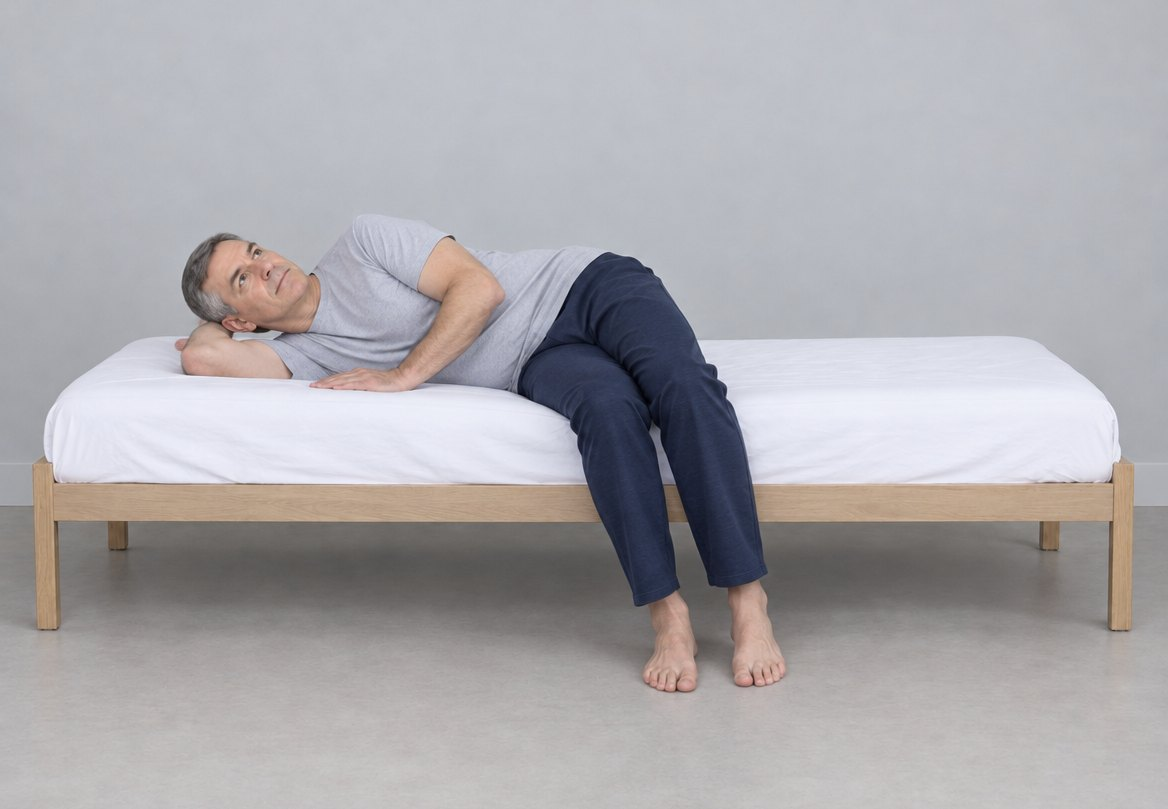
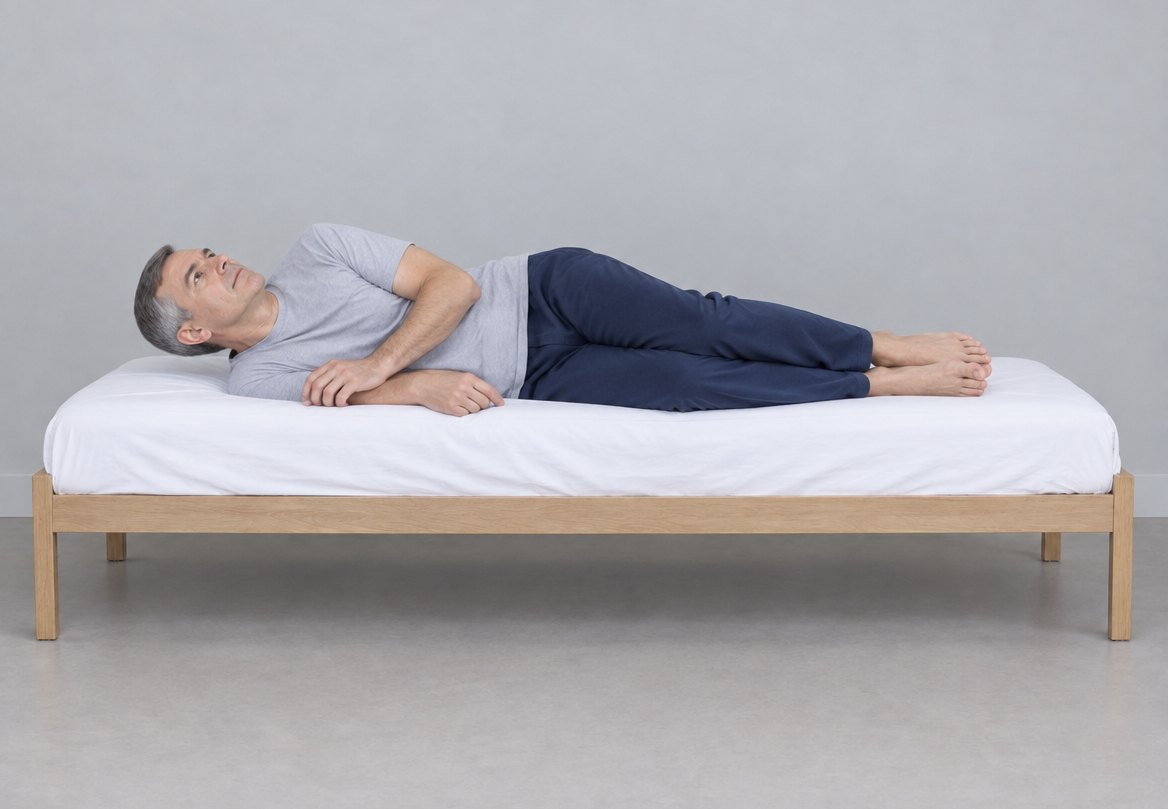
Interactive BPPV animation, softer type, corrected lying photos
- Animation: hold the arrows (or press left/right) to tip the head and
  watch the crystals slide and the cupula bend; the corner pictogram is
  now the hologram head from the landing page, following each posture
  including the Epley turns
- Brandt-Daroff: lying photos with both legs on the bed and the face
  turned up to the ceiling
- Labels use the body face with lighter tracking instead of the square
  monospace; slightly smaller headings and ledes

Claude-Session: https://claude.ai/code/session_012kNT1NbkjbFywj2rgqaw1M

diff --git a/src/scripts/otolith.js b/src/scripts/otolith.js
@@ -6,6 +6,7 @@
 // (towards the viewer). Shapes are simplified for patient education.
 
 import * as THREE from 'three';
+import { loadHead } from './holo.js';
 
 // ---------- geometry helpers ----------
 const v3 = (x, y, z) => new THREE.Vector3(x, y, z);
@@ -153,14 +154,32 @@ const structFS = (points) => `
   }`;
 
 // ---------- animation ----------
-export function createOtolithAnimation({ host, captions, labels, onStep, onPosture }) {
+export async function createOtolithAnimation({ host, inset, headUrl, captions, labels, onStep, onManual }) {
   const reduceMotion = window.matchMedia('(prefers-reduced-motion: reduce)').matches;
   const renderer = new THREE.WebGLRenderer({ antialias: true, alpha: true });
   renderer.setPixelRatio(Math.min(window.devicePixelRatio || 1, 2));
   host.appendChild(renderer.domElement);
 
+  renderer.autoClear = false;
   const scene = new THREE.Scene();
   const camera = new THREE.PerspectiveCamera(34, 1, 0.1, 50);
+
+  // Small hologram of the patient's head (the landing-page model) that copies the posture.
+  const headData = await loadHead(headUrl);
+  const headScene = new THREE.Scene();
+  const headCam = new THREE.PerspectiveCamera(30, 1, 0.1, 50);
+  headCam.position.set(8, -0.1, 0);
+  headCam.lookAt(0, -0.1, 0);
+  const headPivot = new THREE.Group();
+  const headModel = new THREE.Group();
+  headModel.position.set(0, 0.55, 0.1);           // rotate about the top of the neck
+  headPivot.position.set(0, -0.55, -0.1);
+  headPivot.add(headModel);
+  headScene.add(headPivot);
+  const hp = new THREE.BufferGeometry();
+  hp.setAttribute('position', new THREE.BufferAttribute(headData.pts, 3));
+  hp.setAttribute('normal', new THREE.BufferAttribute(headData.ptsN, 3));
+  hp.setAttribute('feature', new THREE.BufferAttribute(headData.ptsF, 1));
   const pivot = new THREE.Group();          // rotates like the patient's head
   const lab = new THREE.Group();
   const centre = v3(0.42, 0.0, -0.08);
@@ -171,6 +190,20 @@ export function createOtolithAnimation({ host, captions, labels, onStep, onPostu
   const px = { value: renderer.getPixelRatio() };
   const fade = { value: 1 };
   const additive = { transparent: true, depthWrite: false, blending: THREE.AdditiveBlending };
+  headModel.add(new THREE.Points(hp, new THREE.ShaderMaterial({
+    uniforms: { uPx: px },
+    vertexShader: `${lit}
+      uniform float uPx; attribute float feature; varying float vA;
+      void main() {
+        vec3 nv = normalize(normalMatrix * normal);
+        vA = (shade(normal) * 0.55 + feature * 0.9) * smoothstep(-0.25, 0.3, nv.z) * smoothstep(-1.75, -1.3, position.y);
+        gl_PointSize = 1.1 * uPx;
+        gl_Position = projectionMatrix * modelViewMatrix * vec4(position, 1.0);
+      }`,
+    fragmentShader: `varying float vA; void main() { float d = length(gl_PointCoord - 0.5); if (d > 0.5) discard; gl_FragColor = vec4(0.55, 0.95, 1.0, vA * (1.0 - d * 2.0)); }`,
+    ...additive,
+  })));
+
   const geo = buildLabyrinth();
   const lg = new THREE.BufferGeometry();
   lg.setAttribute('position', new THREE.Float32BufferAttribute(geo.lines, 3));
@@ -249,7 +282,7 @@ export function createOtolithAnimation({ host, captions, labels, onStep, onPostu
     { d: 3, tilt: -360 },     // 6 back in the utricle, where they cause no symptoms
   ];
   const TOTAL = STEPS.reduce((a, s) => a + s.d, 0);
-  let t = 0, step = -1, tilt = 0, bend = 0, lastPostureTilt = null;
+  let t = 0, step = -1, tilt = 0, bend = 0;
   const q = new THREE.Quaternion();
   const sway = new THREE.Quaternion();
 
@@ -274,6 +307,26 @@ export function createOtolithAnimation({ host, captions, labels, onStep, onPostu
     }
     return prev;
   }
+
+  // Head posture shown in the corner. 0 to -110: lying back with the head turned 45°;
+  // -110 to -360: the Epley turns (head to the other side, roll onto the side, sit up).
+  const qPitch = new THREE.Quaternion(), qYaw = new THREE.Quaternion();
+  const AX = v3(1, 0, 0), AY = v3(0, 1, 0);
+  function headPose(tl) {
+    let pitch, yaw;
+    if (tl >= 0) { pitch = tl; yaw = 0; }
+    else if (tl >= -110) { pitch = tl; yaw = 45 * (-tl / 110); }
+    else if (tl >= -200) { pitch = -110; yaw = 45 - 90 * ((-tl - 110) / 90); }
+    else if (tl >= -290) { pitch = -110; yaw = -45 - 90 * ((-tl - 200) / 90); }
+    else { const f = (-tl - 290) / 70; pitch = -110 * (1 - f); yaw = -135 + 135 * f; }
+    // the face looks along +z; tipping the head back is a turn about the ear-to-ear axis (x)
+    qPitch.setFromAxisAngle(AX, deg(pitch));
+    qYaw.setFromAxisAngle(AY, deg(yaw));
+    headPivot.quaternion.copy(qPitch).multiply(qYaw);
+  }
+
+  // manual mode: the arrows tilt the head and gravity does the rest
+  let manual = false, manualTarget = 0, push = 0;
 
   const world = new THREE.Vector3();
   const yAt = (s) => world.copy(at(s)).applyMatrix4(lab.matrixWorld).y;
@@ -301,29 +354,32 @@ export function createOtolithAnimation({ host, captions, labels, onStep, onPostu
     if (!running) return;
     // keep real time even on slow devices, but never jump more than a fifth of a second
     const dt = Math.min(clock.getDelta(), 0.2);
-    t = (t + dt) % TOTAL;
-
-    // which step are we in?
-    let acc = 0, i = 0;
-    while (i < STEPS.length - 1 && t >= acc + STEPS[i].d) { acc += STEPS[i].d; i++; }
-    if (i !== step) {
-      step = i;
-      onStep(step, captions[step]);
-      if (step === 0) {
-        for (const p of free) { p.s = 0.14 + Math.random() * 0.1; p.v = 0; p.home = false; }
-        bend = 0;
+    let local = 0;
+    if (manual) {
+      manualTarget = Math.max(-180, Math.min(40, manualTarget + push * 70 * dt));
+      tilt += (manualTarget - tilt) * Math.min(1, dt * 5);
+    } else {
+      t = (t + dt) % TOTAL;
+      // which step are we in?
+      let acc = 0, i = 0;
+      while (i < STEPS.length - 1 && t >= acc + STEPS[i].d) { acc += STEPS[i].d; i++; }
+      if (i !== step) {
+        step = i;
+        onStep(step, captions[step]);
+        if (step === 0) {
+          for (const p of free) { p.s = 0.14 + Math.random() * 0.1; p.v = 0; p.home = false; }
+          bend = 0;
+        }
       }
+      local = (t - acc) / STEPS[step].d;
+      tilt = targetTilt(t);
     }
-    const local = (t - acc) / STEPS[step].d;
-
-    tilt = targetTilt(t);
     q.setFromAxisAngle(nPost, deg(tilt));
     // a gentle turn about the vertical axis to show depth; it does not change "down"
     sway.setFromAxisAngle(UP, reduceMotion ? -0.35 : -0.35 + Math.sin(t * 0.35) * 0.2);
     pivot.quaternion.copy(sway).multiply(q);
     pivot.updateMatrixWorld(true);
-    const postureTilt = Math.round(tilt);
-    if (postureTilt !== lastPostureTilt) { lastPostureTilt = postureTilt; onPosture(tilt); }
+    headPose(tilt);
 
     // otoconia
     let flow = 0;
@@ -376,9 +432,22 @@ export function createOtolithAnimation({ host, captions, labels, onStep, onPostu
     cupGeo.attributes.position.needsUpdate = true;
 
     // fade between loops
-    fade.value = Math.min(1, t / 0.8, (TOTAL - t) / 0.8);
+    fade.value = manual ? 1 : Math.min(1, t / 0.8, (TOTAL - t) / 0.8);
 
+    renderer.setViewport(0, 0, host.clientWidth, host.clientHeight);
+    renderer.clear();
     renderer.render(scene, camera);
+    // corner view of the head, drawn into the inset box
+    const box = inset.getBoundingClientRect(), hb = host.getBoundingClientRect();
+    if (box.width > 0) {
+      const x = box.left - hb.left, y = hb.bottom - box.bottom;
+      renderer.setScissorTest(true);
+      renderer.setScissor(x, y, box.width, box.height);
+      renderer.setViewport(x, y, box.width, box.height);
+      renderer.clearDepth();
+      renderer.render(headScene, headCam);
+      renderer.setScissorTest(false);
+    }
     const out = {};
     for (const [key, a] of Object.entries(anchors)) {
       tmp.copy(a).applyMatrix4(lab.matrixWorld).project(camera);
@@ -388,9 +457,24 @@ export function createOtolithAnimation({ host, captions, labels, onStep, onPostu
     raf = requestAnimationFrame(frame);
   }
 
+  function enterManual() {
+    if (manual) return;
+    manual = true;
+    manualTarget = tilt;
+    // the crystals must already be in the canal to play with them
+    if (step < 2 || step >= 6) {
+      tilt = manualTarget = 0;
+      free.forEach((p, k) => { p.s = S_REST + (k - N / 2) * 0.014; p.home = false; });
+      step = 2;
+    }
+    onManual(true);
+  }
+
   return {
     play() { if (running) return; running = true; clock.getDelta(); raf = requestAnimationFrame(frame); },
     pause() { running = false; cancelAnimationFrame(raf); },
-    restart() { t = 0; step = -1; },
+    restart() { manual = false; push = 0; onManual(false); t = 0; step = -1; },
+    // dir: +1 tips the head back, -1 brings it forward, 0 stops
+    tilt(dir) { if (dir) enterManual(); push = -dir; },
   };
 }

diff --git a/src/styles/global.css b/src/styles/global.css
@@ -13,14 +13,15 @@
 
   --display: 'Oxanium', 'Eurostile', 'Segoe UI', system-ui, sans-serif;
   --body: 'Instrument Sans', 'Segoe UI', system-ui, sans-serif;
-  --mono: 'IBM Plex Mono', ui-monospace, 'SFMono-Regular', Menlo, monospace;
+  /* small uppercase labels: the body face, lightly tracked */
+  --label: 'Instrument Sans', 'Segoe UI', system-ui, sans-serif;
 
   --step--1: 0.8125rem;
   --step-0: 1rem;
   --step-1: 1.1875rem;
   --step-2: 1.5rem;
-  --step-3: clamp(1.75rem, 3.2vw, 2.4rem);
-  --step-4: clamp(2.1rem, 5vw, 3.4rem);
+  --step-3: clamp(1.5rem, 2.6vw, 2rem);
+  --step-4: clamp(1.9rem, 4.2vw, 2.8rem);
 
   --gutter: max(16px, env(safe-area-inset-left, 0px));
   --gutter-r: max(16px, env(safe-area-inset-right, 0px));
@@ -52,8 +53,8 @@ img { max-width: 100%; height: auto; }
 [hidden] { display: none !important; }
 
 h1, h2, h3 { font-family: var(--display); line-height: 1.15; text-wrap: balance; margin: 0; }
-h1 { font-size: var(--step-4); font-weight: 700; letter-spacing: 0.02em; }
-h2 { font-size: var(--step-3); font-weight: 500; letter-spacing: 0.02em; }
+h1 { font-size: var(--step-4); font-weight: 700; letter-spacing: 0.01em; }
+h2 { font-size: var(--step-3); font-weight: 500; letter-spacing: 0.01em; }
 h3 { font-size: var(--step-1); font-weight: 500; }
 
 .wrap {
@@ -65,9 +66,10 @@ h3 { font-size: var(--step-1); font-weight: 500; }
 }
 
 .label {
-  font-family: var(--mono);
-  font-size: 0.72rem;
-  letter-spacing: 0.16em;
+  font-family: var(--label);
+  font-size: 0.74rem;
+  font-weight: 600;
+  letter-spacing: 0.08em;
   text-transform: uppercase;
   color: var(--holo-dim);
   margin: 0;
@@ -94,7 +96,7 @@ h3 { font-size: var(--step-1); font-weight: 500; }
   gap: 10px;
   font-family: var(--display);
   font-weight: 500;
-  letter-spacing: 0.1em;
+  letter-spacing: 0.05em;
   text-transform: uppercase;
   font-size: 0.85rem;
   color: var(--void);
@@ -117,14 +119,14 @@ h3 { font-size: var(--step-1); font-weight: 500; }
 }
 
 /* Long-form reading (fichas and legal pages) */
-.prose { max-width: var(--measure); font-size: 1.0625rem; line-height: 1.7; }
-.prose h2 { font-size: var(--step-2); margin: 2.2em 0 0.6em; color: var(--holo); }
+.prose { max-width: var(--measure); font-size: 1rem; line-height: 1.7; }
+.prose h2 { font-size: 1.35rem; margin: 2.2em 0 0.6em; color: var(--holo); }
 .prose h3 { margin: 1.8em 0 0.5em; }
 .prose p, .prose ul, .prose ol { margin: 0 0 1em; }
 .prose li { margin-bottom: 0.35em; }
 .prose strong { color: #fff; font-weight: 600; }
 .prose table { border-collapse: collapse; width: 100%; font-size: 0.95rem; margin: 0 0 1.4em; }
-.prose th { font-family: var(--mono); font-size: 0.72rem; font-weight: 500; letter-spacing: 0.12em; text-transform: uppercase; color: var(--holo-dim); }
+.prose th { font-family: var(--label); font-size: 0.72rem; font-weight: 500; letter-spacing: 0.06em; text-transform: uppercase; color: var(--holo-dim); }
 .prose th, .prose td { border: 1px solid var(--holo-line); padding: 8px 10px; text-align: left; vertical-align: top; }
 .prose blockquote {
   margin: 1.4em 0;

diff --git a/src/scripts/holo.js b/src/scripts/holo.js
@@ -7,7 +7,7 @@ import * as THREE from 'three';
 const MAXH = 4; // hit spheres per zone
 
 // ---------- head data ----------
-async function loadHead(url) {
+export async function loadHead(url) {
   const res = await fetch(url);
   if (!res.ok) throw new Error(`head data ${res.status}`);
   const buf = await res.arrayBuffer();
